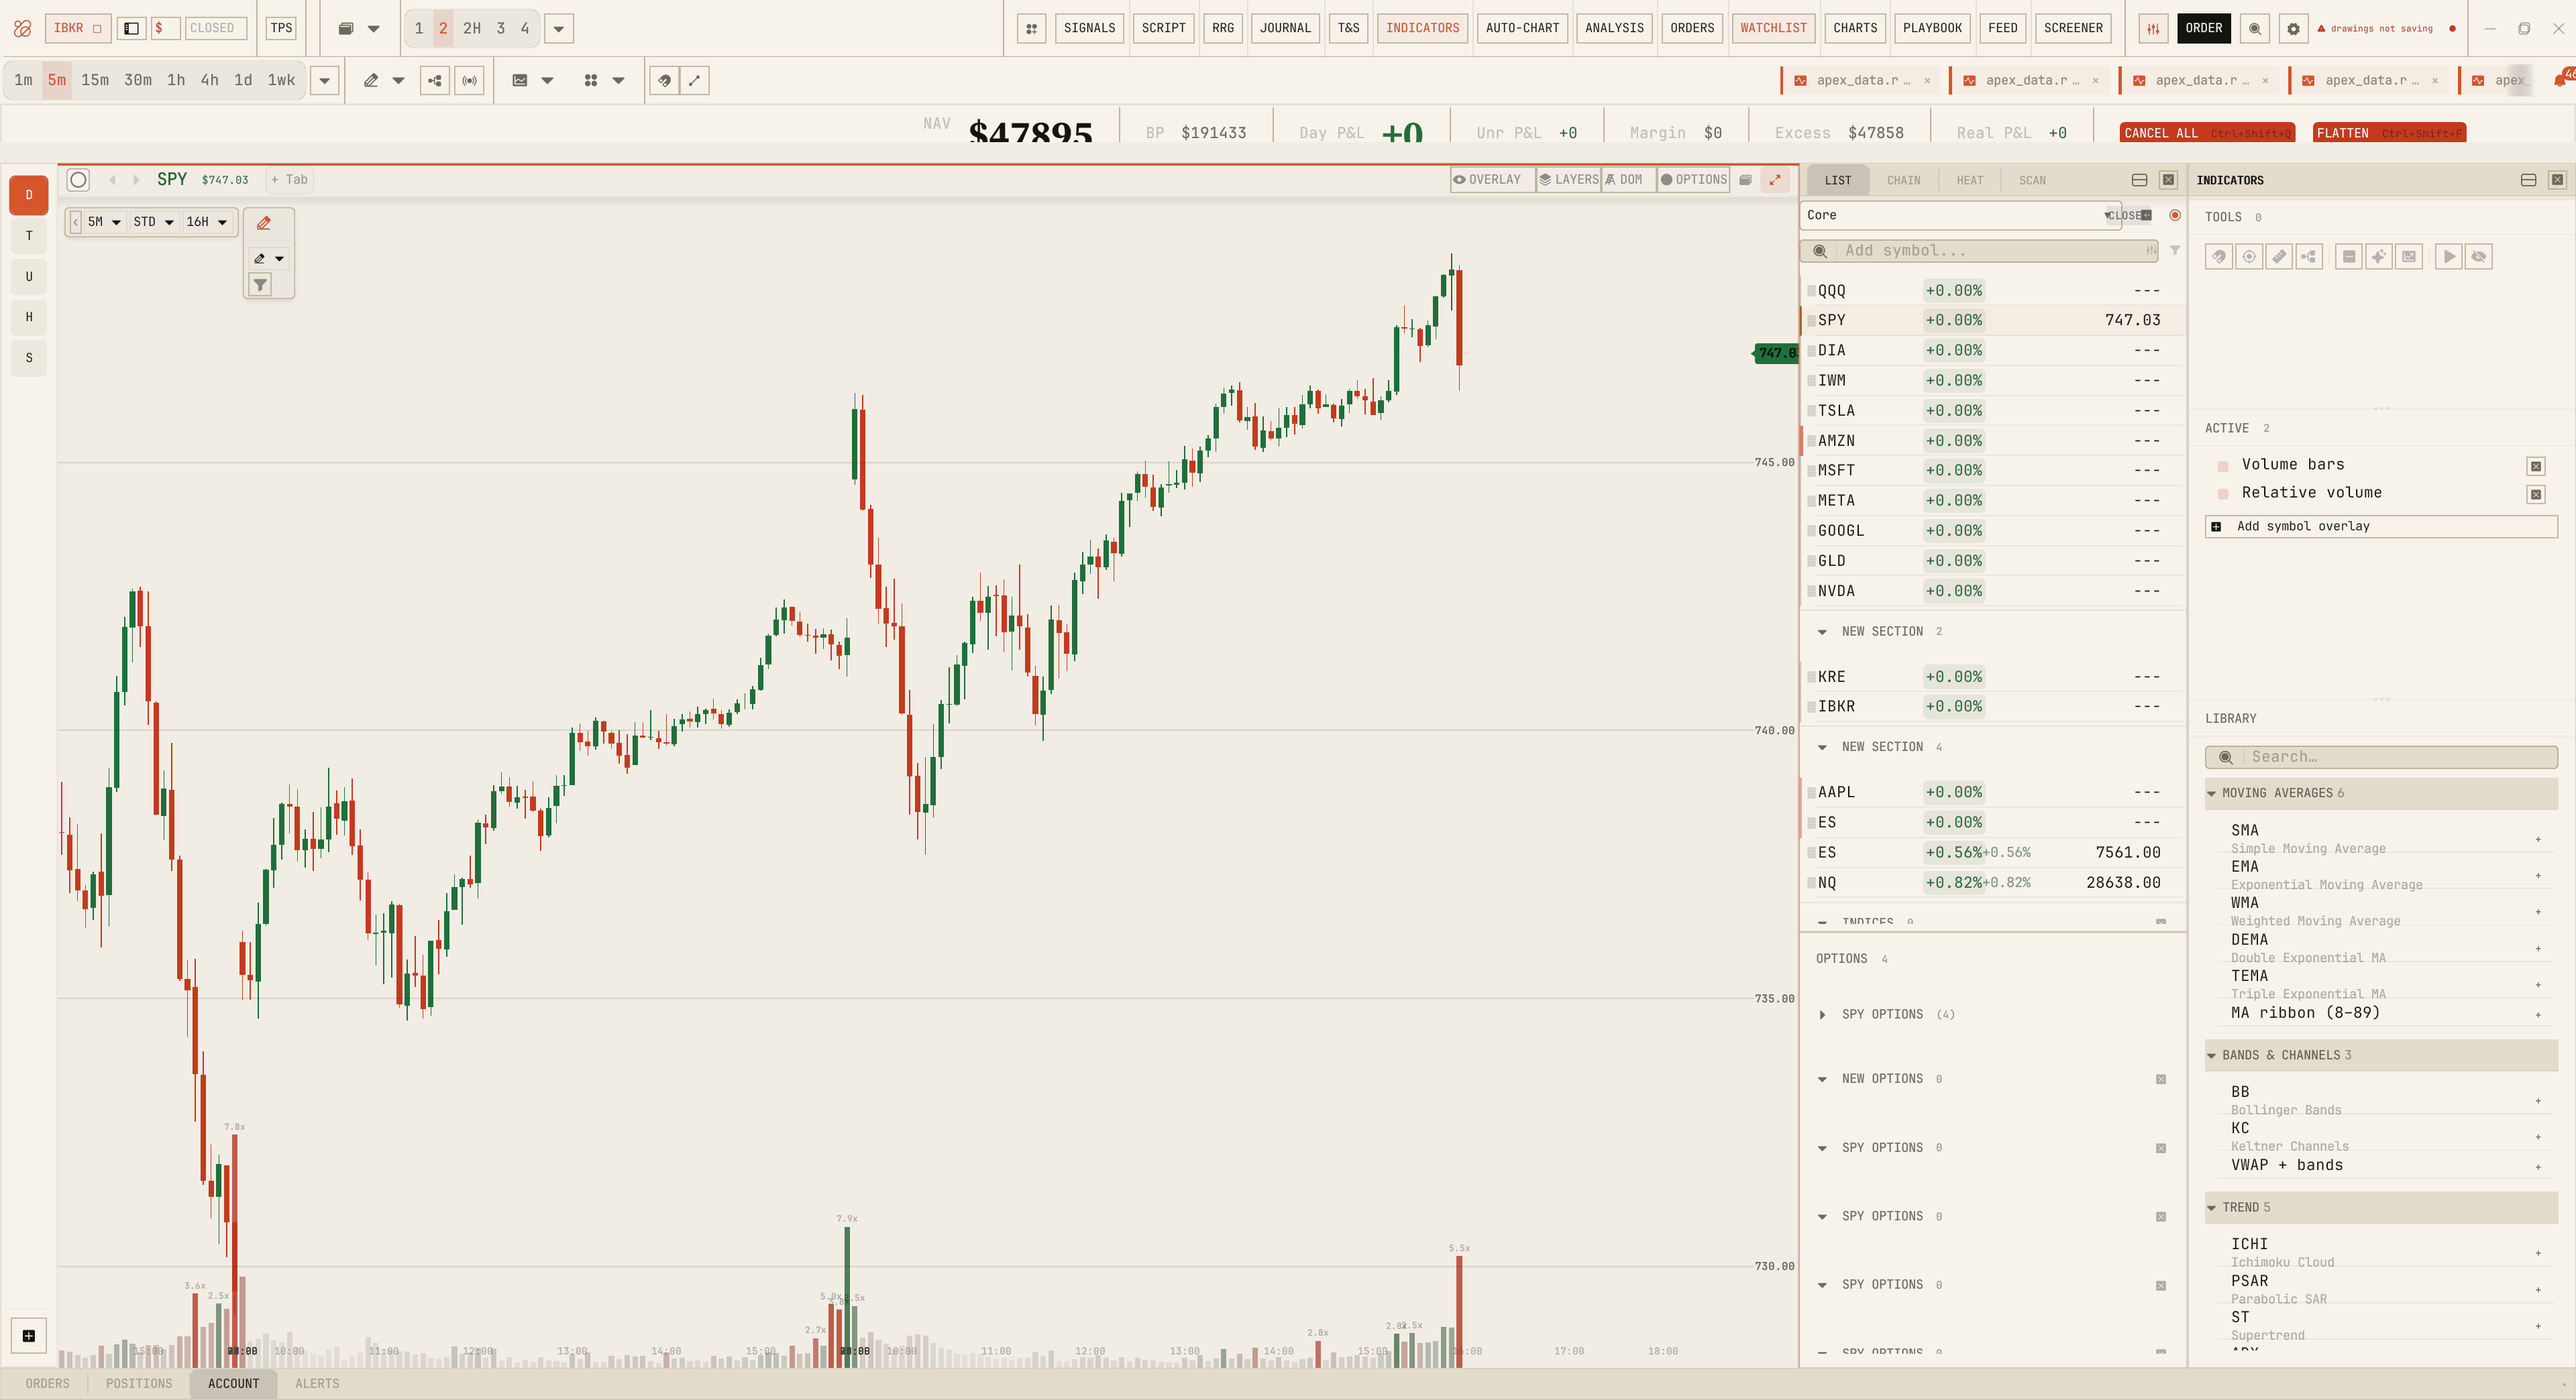
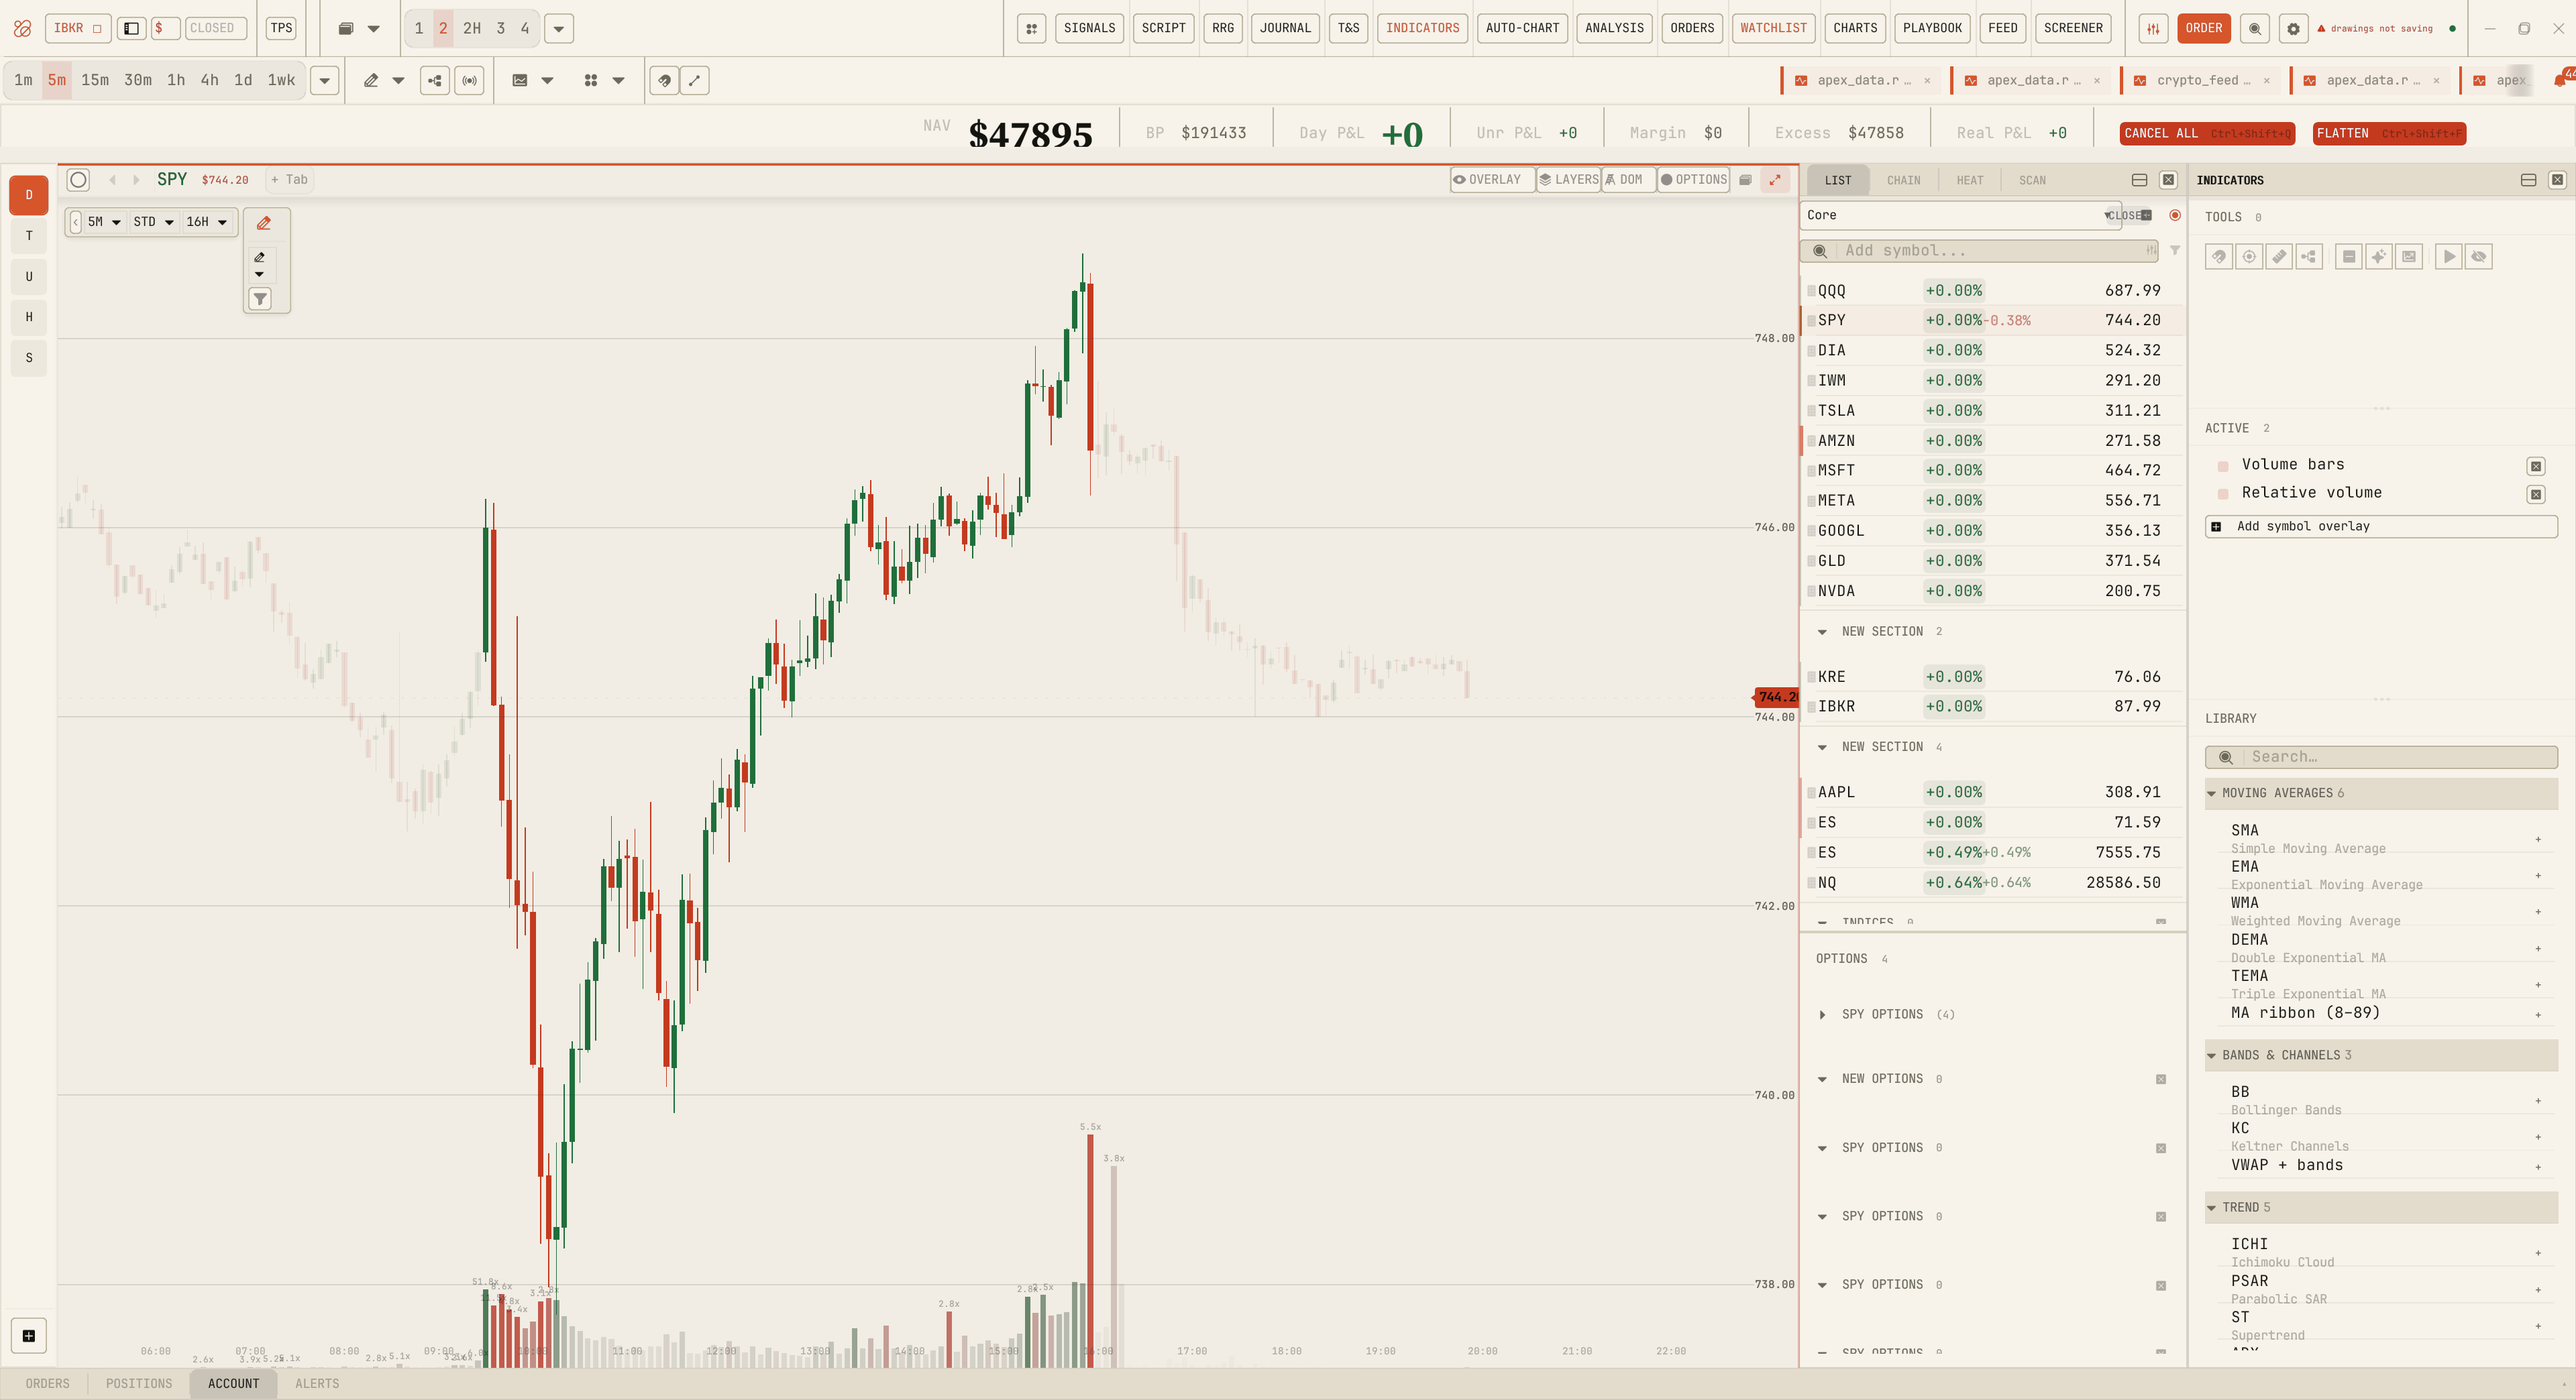
M5: fix the frozen-chrome defect that clipped Meridien's NAV hero
Spotted while running the M5 visual gate: Meridien's account strip
guillotines "NAV $47895". Confirmed PRE-EXISTING (not from the radius or
stroke sweeps) by extracting the earliest capture from 6fc38a14 — the
clipping is byte-identical there.

Root cause, a textbook instance of the anti-pattern this repo already
has a name for:

  font_hero:            36.0   (Meridien, style.rs)
  account_strip_height: 36.0   (Meridien, builtin.rs)
  frame inner_margin:    2 top + 2 bottom

36px of glyph into a 36 - 4 = 32px content box. The strip was PINNED to
a number that only held for the type scale it was authored against, and
stopped holding the moment the editorial hero scale moved. Every gate
was blind to it because both tokens are individually legitimate — only
their RELATIONSHIP was wrong.

The fix is the standing rule: derive, don't pin.

- `style::account_strip_height()` resolves the strip as
  `max(authored, font_hero + margin)`. The authored token becomes a
  FLOOR, not a fixed size. It lives in the token layer, not at the call
  site, so the rule is shared rather than re-derived per consumer.
- top_nav's TopBottomPanel reads the derived value.

Styles whose hero already fits are bit-identical: Aperture and Cadence
author 26.0 against font_hero 22.0, and 22 + 4 == 26, so the max is a
no-op. Only Meridien moves (36 -> 40).

Regression cover: `strip_fits_hero` walks EVERY style and asserts the
strip contains its hero, catching both directions this can come back
[…]

diff --git a/src-tauri/src/chart/renderer/ui/style.rs b/src-tauri/src/chart/renderer/ui/style.rs
@@ -2952,6 +2952,31 @@ pub fn hero_text(text: &str, color: egui::Color32) -> egui::RichText {
     egui::RichText::new(text).font(hero_font_id(size)).color(color)
 }
 
+/// M5 — the account strip's RESOLVED height.
+///
+/// `chrome.account_strip_height` is an authored token, but a strip that is
+/// shorter than the hero number it contains simply clips it. Meridien authors
+/// `font_hero: 36` and `account_strip_height: 36`, and the strip's frame adds
+/// 2px top + 2px bottom margin — leaving 32px of content box for a 36px glyph.
+/// The result was a permanently guillotined `NAV $47895`.
+///
+/// This is the repo's recurring *frozen chrome* defect: a chrome dimension
+/// pinned to a value that some token USED to produce, which stops holding the
+/// moment that token moves. The cure is the standing rule — **derive, don't
+/// pin**. The authored token becomes a FLOOR: the strip is whichever is
+/// larger, what the designer asked for or what the type scale requires.
+///
+/// Styles whose hero already fits are bit-identical (Aperture and Cadence
+/// author 26.0 with `font_hero: 22.0`; 22 + 4 == 26, so the max is a no-op).
+/// `strip_fits_hero` in the test module holds that invariant for every style.
+pub fn account_strip_height() -> f32 {
+    /// The strip frame's vertical inner margin (top 2 + bottom 2), which is
+    /// subtracted from the panel height before any text is laid out.
+    const V_MARGIN: f32 = 4.0;
+    let s = current();
+    s.account_strip_height.max(s.font_hero + V_MARGIN)
+}
+
 /// Apply per-style egui::Style overrides (widget visuals, spacing, shadows)
 /// to the given context. Call once per frame after `set_active_style` (#3).
 ///
@@ -3990,6 +4015,53 @@ mod m1_ladder_tests {
 
         assert_eq!(snap.gap_md, 99.0, "authored gap_md must reach TokenSnapshot");
         assert_eq!(snap.font_sm, 33.0, "authored ui_sm must reach TokenSnapshot");
+    }
+
+    /// M5 — the frozen-chrome invariant, for EVERY style.
+    ///
+    /// The account strip must be tall enough to contain the hero number it
+    /// exists to display. Meridien violated this for its whole life (36px hero
+    /// authored into a 36px strip, minus 4px of frame margin) and shipped a
+    /// permanently clipped NAV figure. The bug was invisible to every gate
+    /// because both numbers are legitimate tokens in isolation — only their
+    /// RELATIONSHIP was wrong.
+    ///
+    /// This test is the relationship. It fails if a future style authors a
+    /// larger hero without noticing the strip, or shrinks the strip without
+    /// noticing the hero — the two ways this defect can come back.
+    #[test]
+    fn strip_fits_hero() {
+        let _guard = M1_GLOBAL_STATE_TEST_LOCK.lock().unwrap_or_else(|e| e.into_inner());
+        let prev_active = ACTIVE_STYLE.load(std::sync::atomic::Ordering::Acquire);
+
+        let n = style_store().read().unwrap_or_else(|e| e.into_inner()).len() as u8;
+        let mut failures: Vec<String> = Vec::new();
+        let mut derived_above_authored = 0usize;
+        for id in 0..n {
+            set_active_style(id);
+            let s = current();
+            let resolved = account_strip_height();
+            if resolved < s.font_hero + 4.0 {
+                failures.push(format!(
+                    "style {id}: strip resolves to {resolved} but hero is {} (+4px margin)",
+                    s.font_hero
+                ));
+            }
+            if resolved > s.account_strip_height {
+                derived_above_authored += 1;
+            }
+        }
+        set_active_style(prev_active);
+
+        assert!(failures.is_empty(), "clipped hero numbers:\n  {}", failures.join("\n  "));
+        // Meridien is the style whose authored strip does NOT fit its hero.
+        // If this ever hits 0, the derivation has become dead code and the
+        // guard above is passing vacuously.
+        assert!(
+            derived_above_authored >= 1,
+            "no style needed the derivation — account_strip_height() is now inert, \
+             so this invariant is no longer actually being exercised"
+        );
     }
 }
 

diff --git a/src-tauri/src/chart/renderer/ui/components/toolbar/top_nav.rs b/src-tauri/src/chart/renderer/ui/components/toolbar/top_nav.rs
@@ -1321,8 +1321,12 @@ pub(crate) fn render(
     if watchlist.account_strip_open {
         let mut do_cancel_all = false;
         let mut do_flatten    = false;
+        // M5 — frozen-chrome fix: the strip height is DERIVED (authored token
+        // as a floor, raised to fit the hero glyph) rather than pinned. Reading
+        // `style_current().account_strip_height` here clipped Meridien's NAV
+        // number, because that style authors a 36px hero into a 36px strip.
         egui::TopBottomPanel::top("account_strip")
-            .exact_height(style_current().account_strip_height)
+            .exact_height(crate::chart::renderer::ui::style::account_strip_height())
             .frame(egui::Frame::NONE.fill(t.toolbar_bg)
                 .inner_margin(egui::Margin { left: 0, right: 0, top: 2, bottom: 2 })
                 .stroke(egui::Stroke::new(stroke_thin(), tint(t, Tone::Border, alpha_dim()))))
